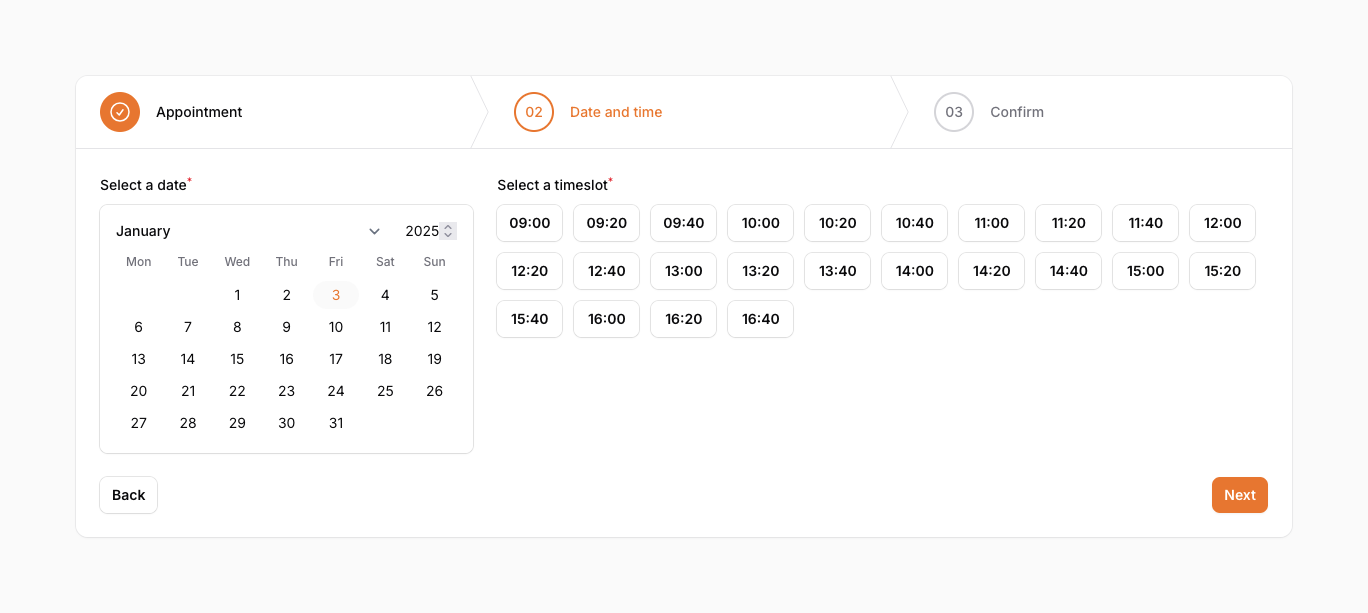
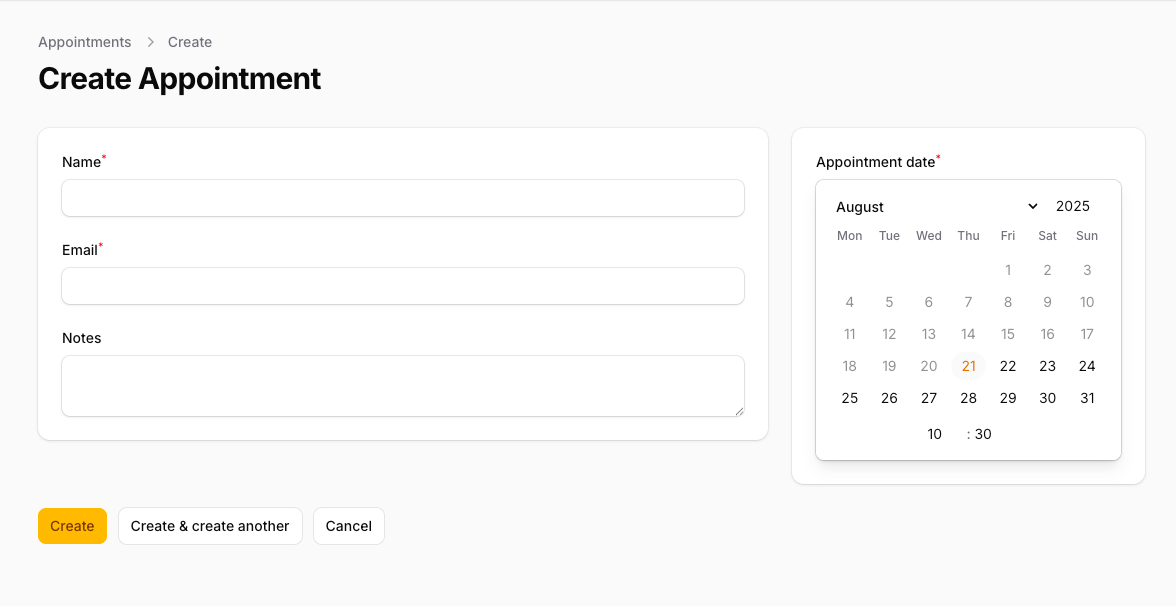
Update README.md

diff --git a/README.md b/README.md
@@ -1,6 +1,6 @@
 # Filament Inline Date-time Picker
 
-[![Filament 3.x](https://img.shields.io/badge/filament-3.x-EBB304?style=flat-square)](https://filamentphp.com/docs/3.x/panels/installation)
+[![Filament 4.x](https://img.shields.io/badge/filament-4.x-EBB304?style=flat-square)](https://filamentphp.com/docs/4.x/introduction/installation)
 [![Latest Version on Packagist](https://img.shields.io/packagist/v/jacobtims/inline-date-time-picker.svg?style=flat-square)](https://packagist.org/packages/jacobtims/inline-date-time-picker)
 [![Total Downloads](https://img.shields.io/packagist/dt/jacobtims/inline-date-time-picker.svg?style=flat-square&color=#44CC11)](https://packagist.org/packages/jacobtims/inline-date-time-picker)
 
@@ -25,7 +25,7 @@ php artisan vendor:publish --tag="inline-date-time-picker-views"
 
 ## Usage
 
-You can use all of the methods available for the Filament [Date-time picker](https://filamentphp.com/docs/3.x/forms/fields/date-time-picker) field, except for the prefix and suffix methods.
+You can use all of the methods available for the Filament [Date-time picker](https://filamentphp.com/docs/4.x/forms/date-time-picker) field, except for the prefix and suffix methods.
 
 ```php
 use Jacobtims\InlineDateTimePicker\Forms\Components\InlineDateTimePicker;
